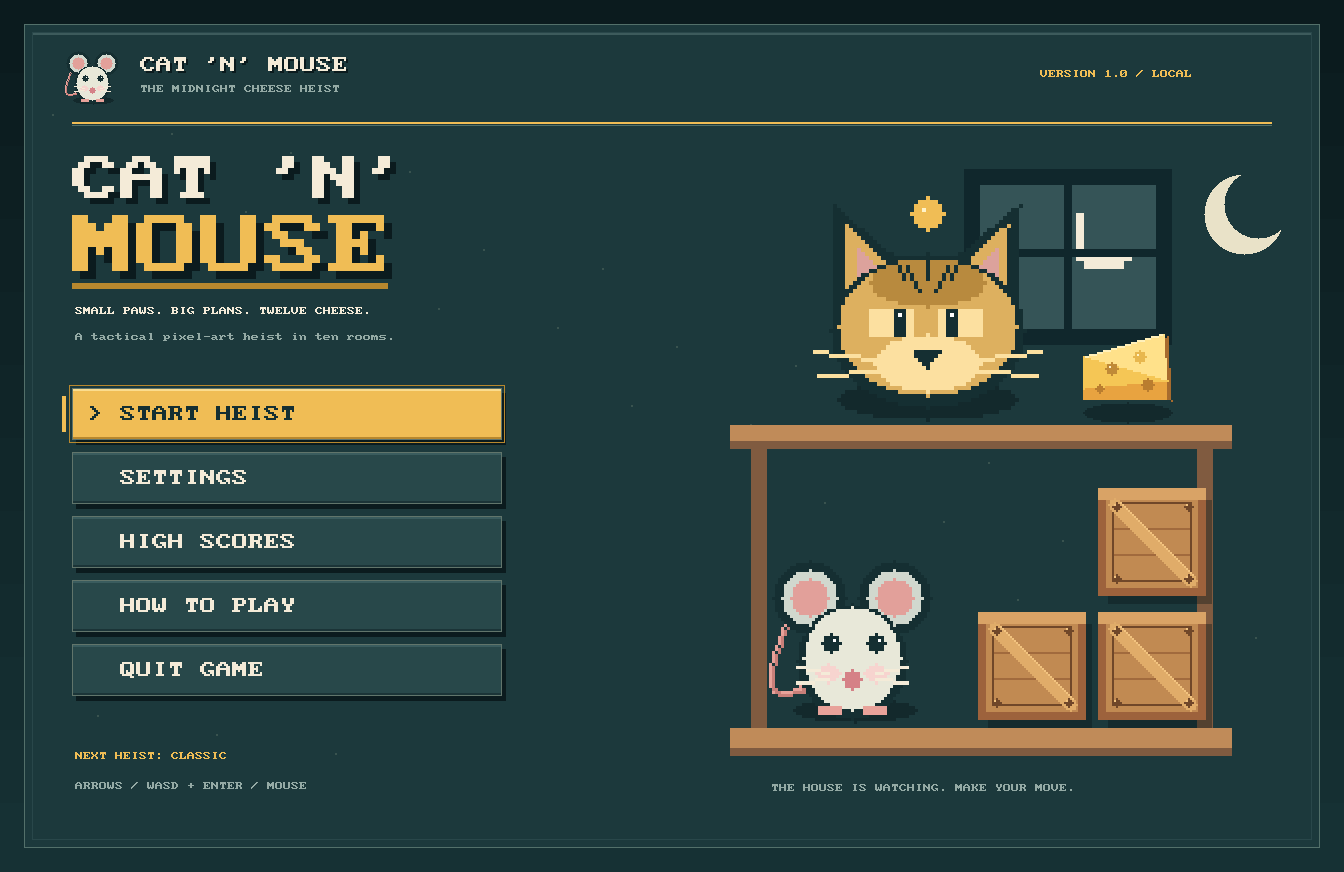
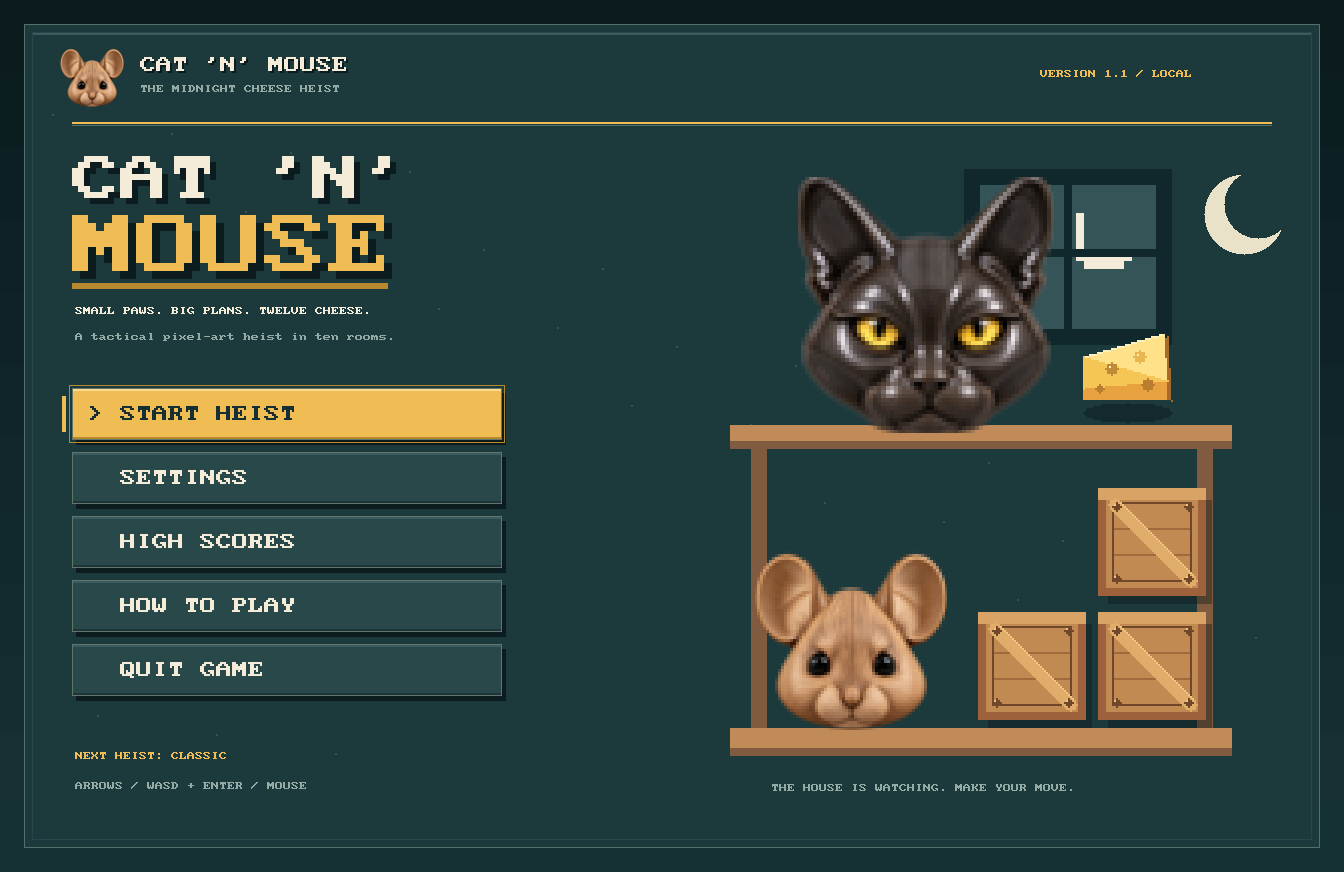
feat(demos): ship Cat n Mouse character portraits as PNG skins
Give the four Cat 'n' Mouse characters shipped 64 x 64 PNG portraits instead
of leaving every sprite to the procedural art module, and rename the cat
colours to match the new art.

- add `assets/mouse.png`, `assets/cat_sentry.png` (black),
  `assets/cat_stalker.png` (tan) and `assets/cat_prowler.png` (violet) to
  the project; `art.zia` still draws every other sprite and stands in for any
  character PNG that is removed, so the existing optional-override path is
  unchanged
- add `tools/make_skins.zia`, an offline tool that derives the prowler from
  the stalker by rotating fur hue to violet while preserving each pixel's
  lightness, alpha and blue eyes, so the two roamers stay one cat in two
  colours; the transform is pure and deterministic and writes only into the
  project's own assets directory (`zanna run tools/make_skins.zia`)
- rename the sentry from amber to black and the stalker from blue to tan in
  the in-game help text and the room-one and room-three hints
  (`rooms.zia`, `view.zia`)
- rewrite the README artwork section and the assets README to describe the
  shipped portraits, the derivation tool and the override rule, and refresh
  `preview.png`

No builds, probes, tests, linters, formatters, packaging steps or network
operations were run during this commit-only pass, as requested.

Claude-Session: https://claude.ai/code/session_01KtFe41XLRfaGViF41fbyQJ

Changed region(s): [[0.5938, 0.1858, 0.7812, 0.4954], [0.5625, 0.6193, 0.7188, 0.836], [0.0312, 0.0619, 0.0938, 0.1239]]

diff --git a/catnmouse/README.md b/catnmouse/README.md
@@ -11,10 +11,11 @@ pixels per cell**. The entire 1280 × 704 board stays visible in a 1344 × 872
 window, with status above and controls below.
 
 The presentation is pixel art throughout: crisp sprites, bitmap lettering,
-stepped shapes, animated pixel details and nearest-neighbor scaling. Everything
-is generated in code, including the original looping chiptune and sound effects.
-Optional PNGs can replace individual sprites without changing game code. No
-downloads or external libraries are required.
+stepped shapes, animated pixel details and nearest-neighbor scaling. The tiles,
+the UI, the original looping chiptune and every sound effect are generated in
+code; the mouse and the three cats ship as 64 x 64 PNG portraits in `assets/`.
+Any sprite, shipped or generated, can be replaced by dropping a PNG in without
+changing game code. No downloads or external libraries are required.
 
 ![Cat 'n' Mouse pixel-art menu](preview.png)
 
@@ -111,9 +112,9 @@ Entering a hunting cat's lane, or having one wander into yours, starts the catch
 your controls lock, the cat walks square by square to you, and only then do you
 lose a life. The cat returns to where it spotted you.
 
-Amber sentries never move and cannot be removed. They only hunt while they glow;
+Black sentries never move and cannot be removed. They only hunt while they glow;
 between searches they are harmless, on a random timer of 2 to 5 seconds idle and
-1.5 to 3 seconds searching. Blue stalkers and violet prowlers wander at random,
+1.5 to 3 seconds searching. Tan stalkers and violet prowlers wander at random,
 avoiding immediate reversals, and cannot push crates. Every 14 to 24 steps a
 wanderer drops a fresh pale crate on the square it just left. Drops never land on
 cheese, the bonus, the exit or you, and never seal any of those in completely.
@@ -176,6 +177,12 @@ notice and preserve playable in-memory state. Scores shown by the real game star
 empty; the visual probe uses explicitly isolated sample records for screenshots.
 
 ## Artwork and customization
+
+The four characters ship as 64 x 64 PNGs in `assets/`: `mouse.png`, the black
+`cat_sentry.png`, the tan `cat_stalker.png`, and `cat_prowler.png`, which
+`tools/make_skins.zia` derives from the stalker by rotating its fur to violet
+while keeping lightness, alpha and the blue eyes. Every other sprite is drawn in
+code by `art.zia`, which also stands in for any character PNG that is missing.
 
 See [assets/README.md](assets/README.md) for the twelve PNG names, transparency,
 dimensions and search order. Set `CATNMOUSE_ASSETS` to use a separate skin

diff --git a/catnmouse/assets/README.md b/catnmouse/assets/README.md
@@ -1,7 +1,9 @@
-# Optional PNG skin
+# Character skins and optional overrides
 
-All artwork is generated by `art.zia`. No files are needed to play. Add any of
-these PNG files here and restart to replace individual sprites:
+The four character portraits below ship in this directory. Every other sprite is
+generated by `art.zia`, which also stands in for any of these files if it is
+removed. Add or replace any of these PNG files here and restart to change a
+sprite; the game code does not change:
 
 | File | Role |
 | --- | --- |
@@ -9,14 +11,19 @@ these PNG files here and restart to replace individual sprites:
 | `wall.png` | Fixed masonry |
 | `crate.png` | Pushable wooden block |
 | `cheese.png` | Pickup |
-| `mouse.png` | Player |
-| `cat_sentry.png` | Amber stationary cat |
-| `cat_stalker.png` | Blue wandering cat |
-| `cat_prowler.png` | Violet wandering cat, faster |
+| `mouse.png` | Player — **ships here** |
+| `cat_sentry.png` | Black stationary cat — **ships here** |
+| `cat_stalker.png` | Tan wandering cat — **ships here** |
+| `cat_prowler.png` | Violet wandering cat, faster — **ships here** |
 | `exit_closed.png` | Locked arch (house-map icon) |
 | `exit_open.png` | Open arch, drawn once the exit appears |
 | `bonus.png` | Star bonus pickup |
 | `crate_new.png` | Pale crate dropped by a wandering cat |
+
+`cat_prowler.png` is derived from `cat_stalker.png` by `../tools/make_skins.zia`,
+which rotates fur hue to violet while keeping each pixel's lightness, alpha and
+blue eyes. Run it from the project directory (`zanna run tools/make_skins.zia`)
+after changing the stalker so the two roamers stay one cat in two colours.
 
 Use 64 by 64 RGBA PNGs; other sizes are scaled to 64 by 64 with nearest-neighbor
 sampling. Keep characters inside the tile and use transparent backgrounds.
